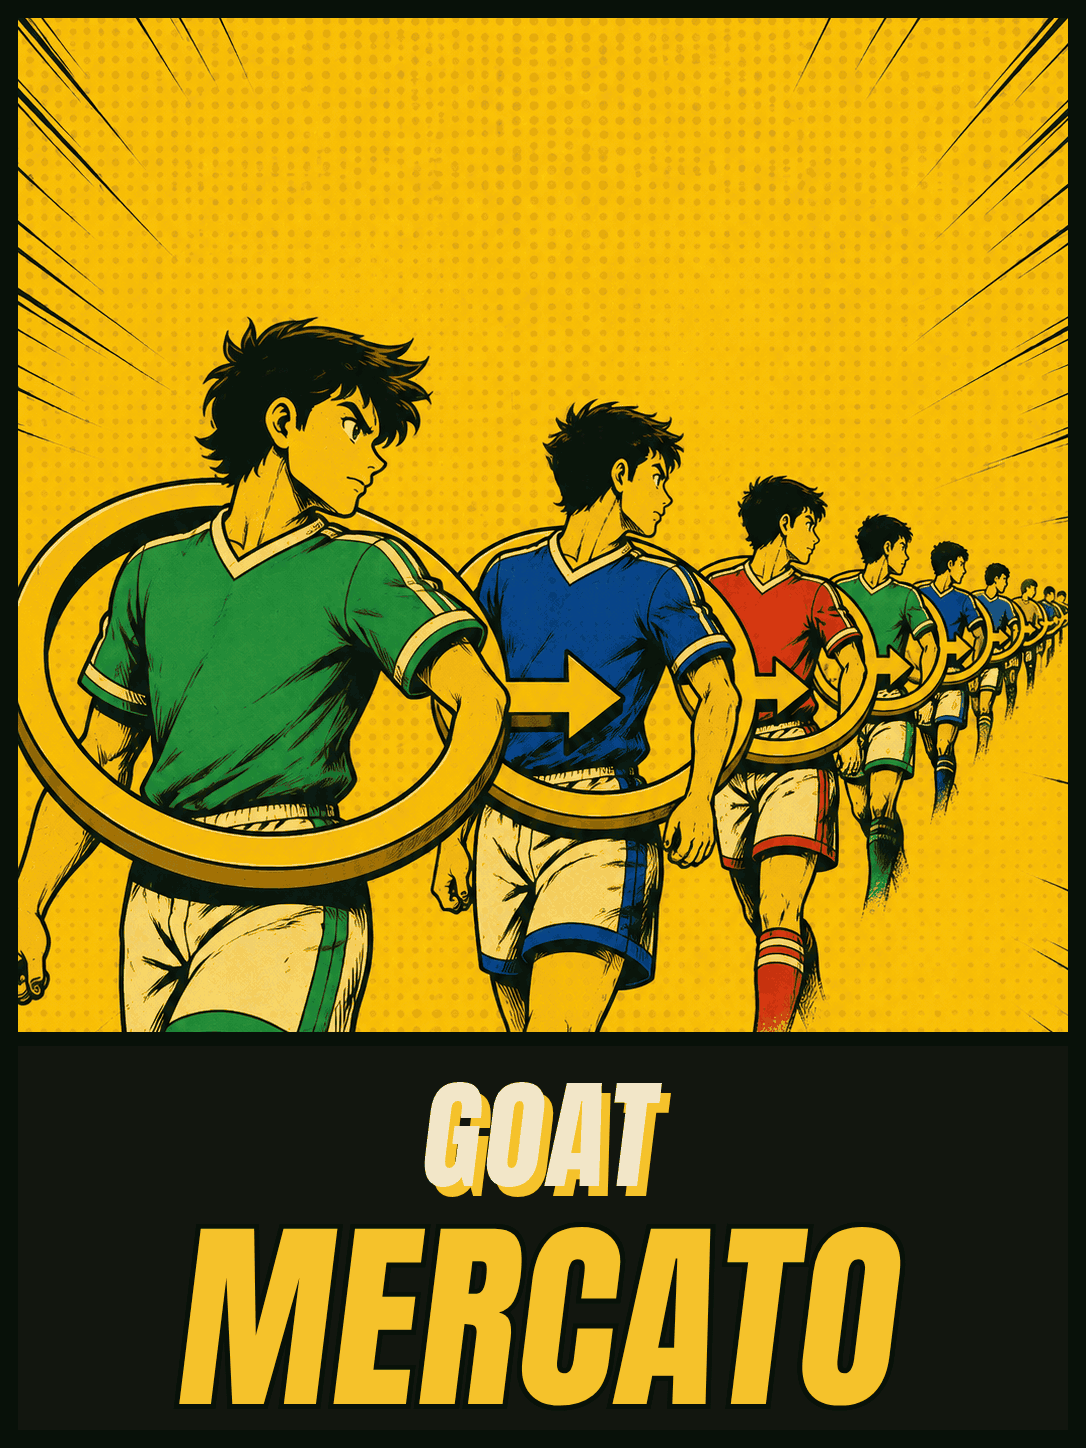
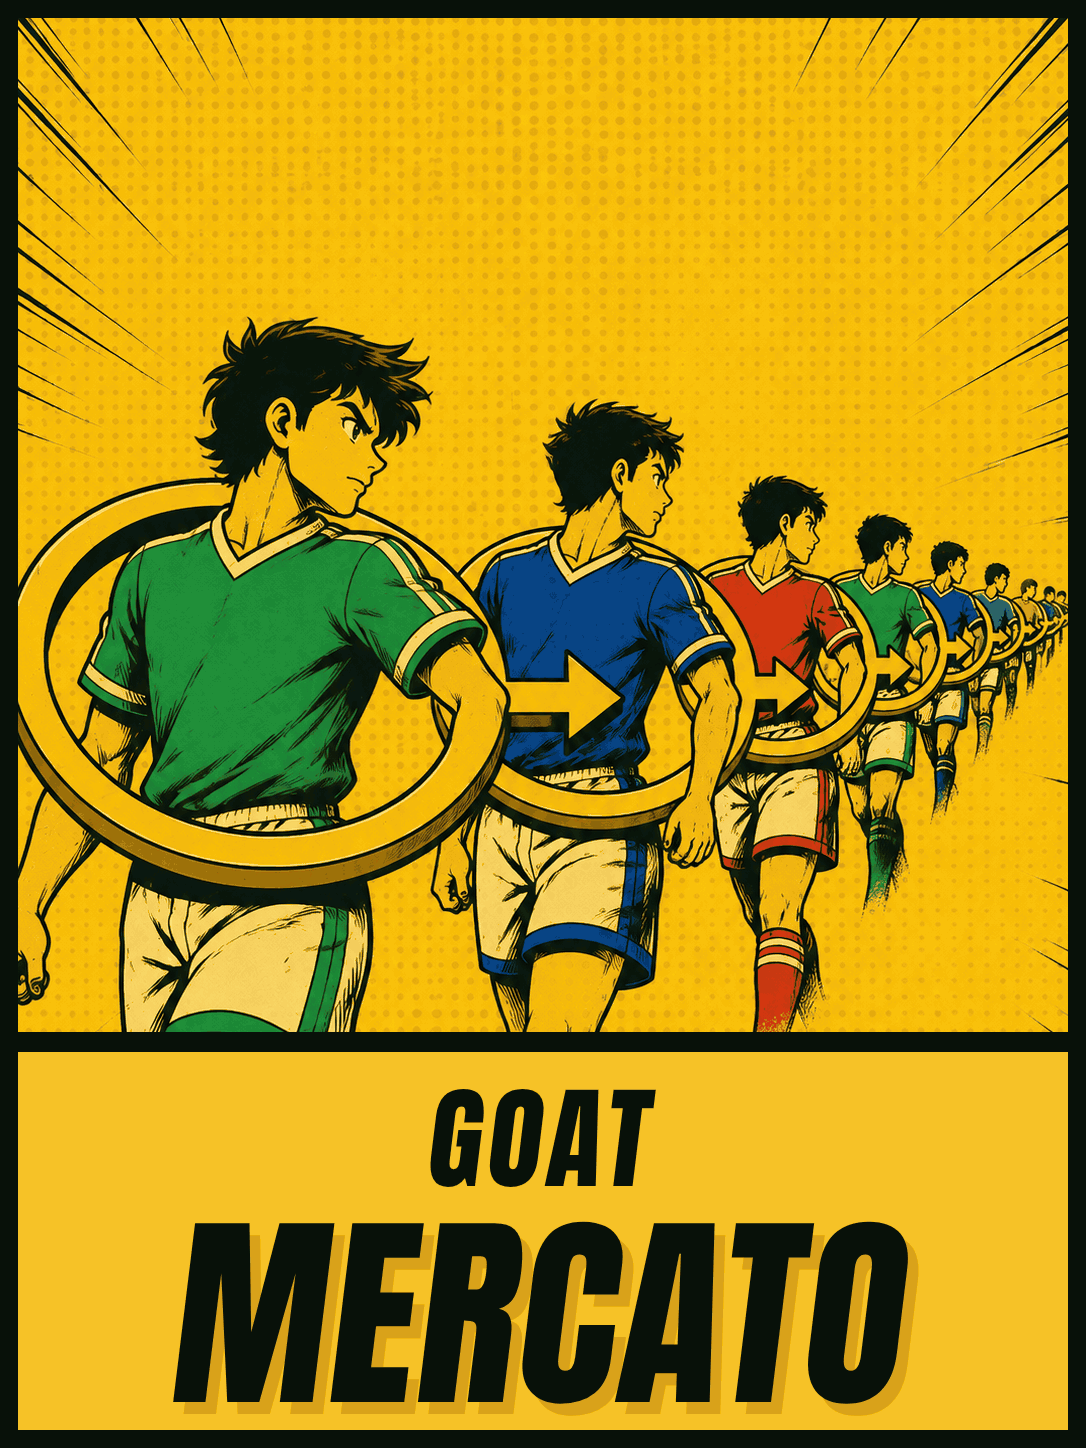
Titre en encre sur un bandeau d'or (#545)
Demande : le bandeau du titre passe du noir a l'or, et le lettrage de l'or a
l'encre.

C'est la regle de la charte prise au mot, et le meilleur choix des deux : sur
l'or, l'encre donne 11,5 de contraste. Le crème tombait a 1,4 et le blanc a 1,7
— c'est bien pour ca qu'il fallait un aplat sombre quand le texte etait clair.
En inversant les deux, la contrainte disparait.

Ni cerne ni ombre portee sur le lettrage : la charte prescrit `posterLight` sur
un aplat clair, c'est-a-dire l'italique seule. Un cerne d'encre sur des lettres
d'encre boucherait les contre-formes pour rien. Seul le grand mot garde un
decalage d'or sombre — le relief d'affiche, sans ajouter de couleur.

La ligne d'encre entre le dessin et le bandeau passe de 7 a 10 px, et il le
faut : l'illustration est elle aussi doree, c'est ce trait seul qui fait lire le
bandeau comme un panneau et non comme la suite du fond.

Verifie au rendu : les six cote a cote et le carrousel mobile. Poids inchange,
2,6 Mo a eux six.

Claude-Session: https://claude.ai/code/session_01YSo8XDmxycK9wDhijtGzLo

diff --git a/public/sw.js b/public/sw.js
@@ -4,7 +4,7 @@
 // IMPORTANT : bumper CACHE_NAME à chaque deploy pour forcer le navigateur
 // à détecter un nouveau SW (les changements de fichier suffisent en théorie
 // mais ça garantit un install propre côté PWA mobile installée).
-const CACHE_NAME = "goatfc-v513-2026-08-12";
+const CACHE_NAME = "goatfc-v514-2026-08-12";
 
 // Install : on prend la main tout de suite sans attendre la fermeture des onglets
 self.addEventListener("install", (event) => {
